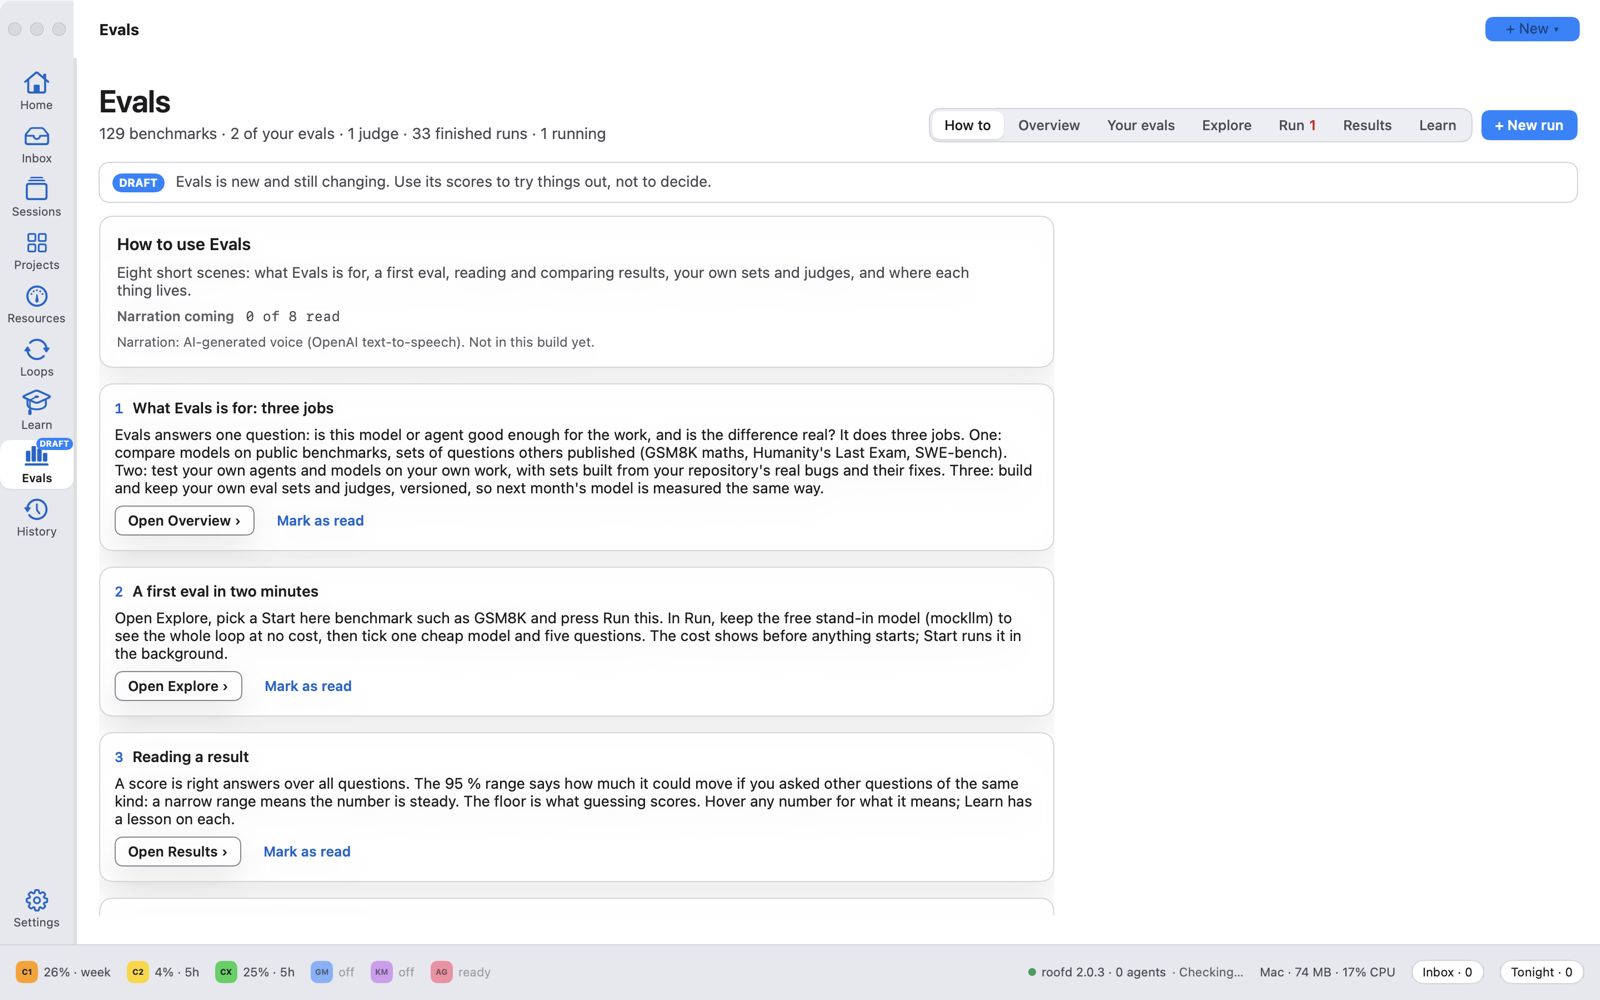
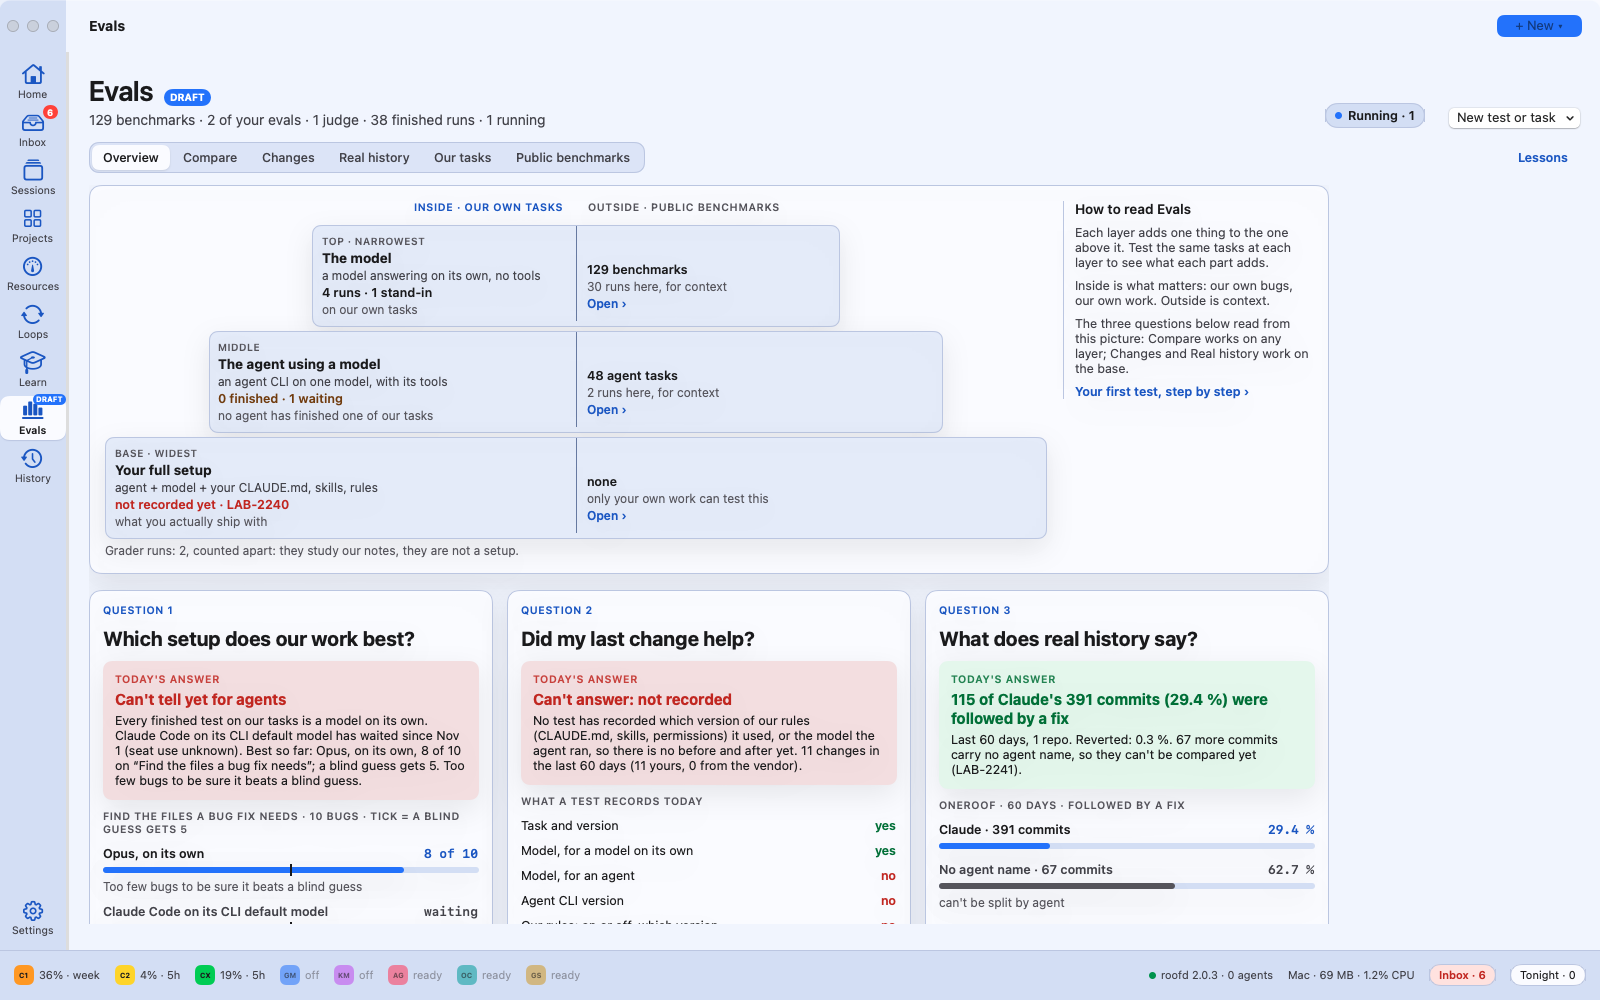
LAB-2242 · [lab-oneroof-v204] One Roof 2.0.4: version, CHANGELOG, README status, One Roof page Evals section + screenshot

diff --git a/site/index.html b/site/index.html
@@ -222,10 +222,10 @@
 
     <section id="evals" class="feature">
       <div class="feature-head">
-        <div class="stack-sm"><span class="tag"><i style="background:var(--accent)"></i>Evals · draft</span><h3>Measure agents and models on your own work.</h3></div>
-        <p>Still a draft, and marked as one in the app. Run public benchmarks or build a question set from your own repo's fixed bugs, then compare agents and models on it. Every score comes with its range and a plain explanation of what it means. The cost shows before anything starts.</p>
+        <div class="stack-sm"><span class="tag"><i style="background:var(--accent)"></i>Evals · draft</span><h3>Is your setup good at your work, and getting better?</h3></div>
+        <p>Still a draft, and marked as one in the app. Test your own setup (an agent, the model it runs on, and your rules) on tasks built from your repo's fixed bugs: one square per bug, a blind-guess line, and a verdict that says "can't tell yet" when the bugs are too few. See whether your last change helped, and what git says about each agent's real work. Public benchmarks stay as context. What a test can tell you shows before anything starts.</p>
       </div>
-      <div class="shot"><img src="shots/evals.png" width="1600" height="1000" loading="lazy" alt="Evals with its Draft banner: the How to tab with short scenes about what Evals is for"></div>
+      <div class="shot"><img src="shots/evals.png" width="1600" height="1000" loading="lazy" alt="Evals Overview: three layers, our tasks against public benchmarks, and three questions answered from your own runs"></div>
     </section>
 
     <section id="more" class="block">

diff --git a/CHANGELOG.md b/CHANGELOG.md
@@ -1,5 +1,36 @@
 # Changelog
 
+## 2.0.4 — Evals v2: your setup on your own work, three questions first (5 Nov 2026)
+
+Evals is still a draft (marked as one in the app), and nothing outside Evals changed.
+
+- **The thing under test is a setup** (LAB-2240). A setup is an agent, the model it runs on and, if you choose, your
+  rules (CLAUDE.md, AGENTS.md). Every score now carries a stamp: the layer (a model on its own · an agent using a
+  model · your full setup), the model that actually answered, the agent and its version, rules on or off with their
+  hash, and the task version. Parts a run could not record say "not recorded" instead of guessing.
+- **Agent and model are picked together** in Set up a test. Seat runs (Claude Code on C1, Codex on CX) now pass the
+  chosen model to the CLI; "CLI default" is allowed and labelled. Rules are off by default (the agent sees no
+  CLAUDE.md or AGENTS.md); rules on gives it the repo's current files, read-only. The sheet says what a test can tell
+  you (for example 10 bugs × 1 try ≈ ±26 points) before it shows the cost.
+- **Six tabs instead of seven:** Overview · Compare · Changes · Real history · Our tasks · Public benchmarks, with Set
+  up a test and Lessons as sheets you can open from anywhere and one "Running" pill for the queue.
+- **Overview** answers three questions from your own runs: which setup does our work best, did my last change help,
+  what does real history say. "Can't tell yet" and "not recorded" are real answers, with what would settle them.
+- **Compare** shows one square per bug for every setup on the same frozen bugs, with a blind-guess mark ("a blind
+  guess gets 5"), the range in counts ("on new bugs, expect 5 to 9") and a paired verdict that never names a winner
+  under 10 shared bugs. One test, bug by bug, puts what the answer named next to what the fix changed.
+- **Changes** lists every change to your rules and skills from git (and vendor changes such as a new CLI version or
+  default model) and pairs before/after tests only when the setups really match.
+- **Real history** reads git: how many of each agent's commits were followed by a fix, rewritten or reverted.
+  Sessions One Roof starts now tell git which agent they are (LAB-2241).
+- **Our tasks** shows each task set in plain words ("Find the files a bug fix needs"), its versions, its blind-guess
+  floor and how many new fixes the next version could add; the grader page keeps labelling, rubric, agreement and
+  versions. Lessons gained "Where everything went", a map from every 2.0.3 Evals feature to its new home.
+- **Fixes:** running Evals no longer writes Python cache files into the app (its signature stays valid, LAB-2219); a
+  provider that stops answering now fails with its error instead of hanging (LAB-2236); a seat test waiting on
+  unknown seat use expires after 6 hours, and Cancel stops the agent's whole process group (LAB-2237); one Draft tag
+  instead of two banners (LAB-2220).
+
 ## 2.0.3 — Ready for anyone: a safe first run, a setup guide, a readable Home (1 Nov 2026)
 
 - **New users start every agent in Manual** (LAB-2169). On a new Mac each agent asks before it edits a file or runs a

diff --git a/README.md b/README.md
@@ -27,7 +27,7 @@
 
 <p align="center"><sub>Free · open source · MIT · signed and notarized · needs macOS 14 or later on Apple silicon</sub></p>
 
-> **Status: version 2.0.3.** Free and open source under the MIT licence. Tested on Apple-silicon Macs only.
+> **Status: version 2.0.4.** Free and open source under the MIT licence. Tested on Apple-silicon Macs only.
 > Evals is still a draft, and is marked as one in the app. Please
 > [open an issue](https://github.com/gaurav8936/oneroof/issues) with anything that breaks or reads badly; see
 > [CONTRIBUTING.md](CONTRIBUTING.md).
